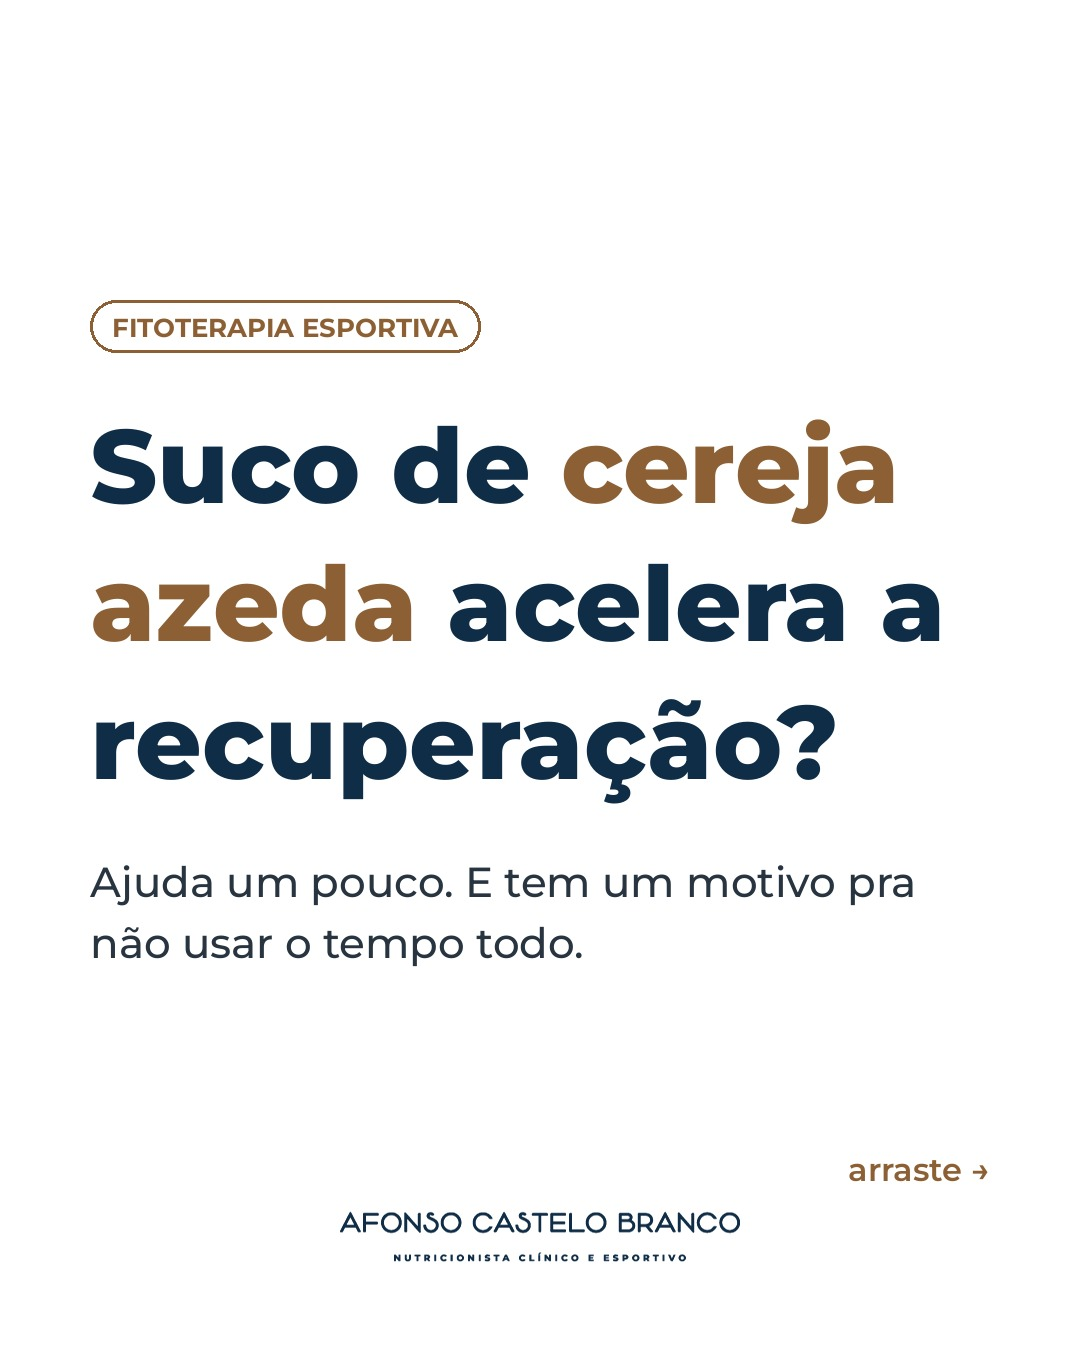
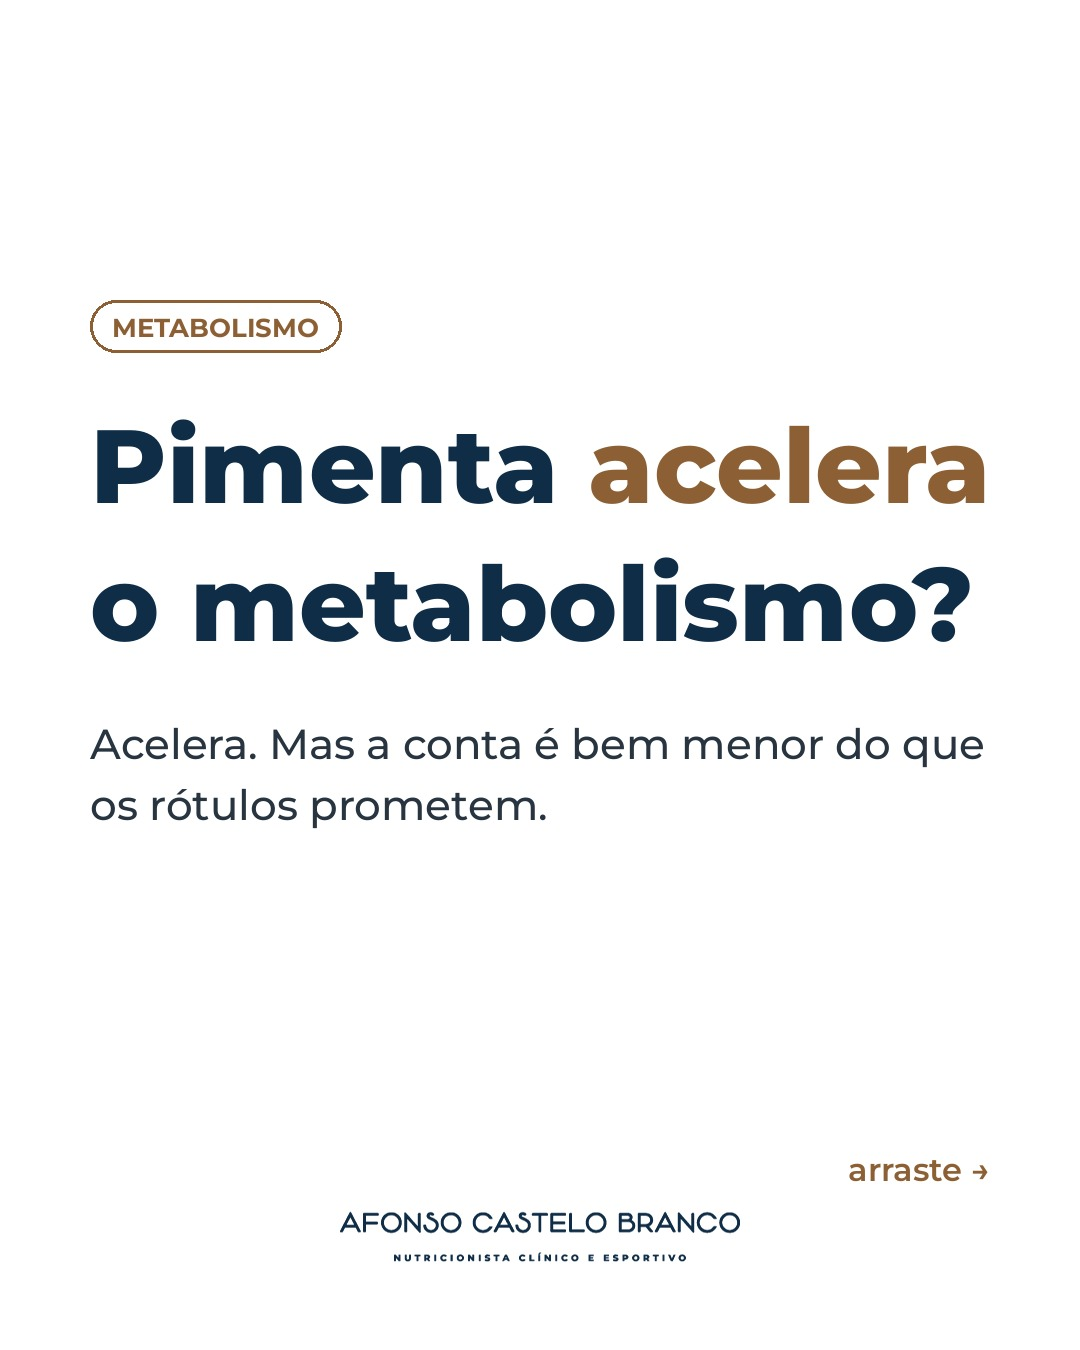
Post 2026-11-27 refeito: capsaicina e metabolismo (pedido do Afonso)
Claude-Session: https://claude.ai/code/session_01U8PX4XedKuDcX27eMS9xx6

diff --git a/historico.md b/historico.md
@@ -6,4 +6,4 @@ Formato: AAAA-MM-DD | eixo editorial | formato | tema | status (aguardando aprov
 2026-11-16 | Nutrição clínica esportiva e fisiologia | carrossel 6 slides | Síntese de proteína muscular durante e depois do treino | publicado | media_id 18139781101638955 (primeiro post)
 2026-11-20 | Fitoterapia integrativa | carrossel 7 slides | Cúrcuma, piperina e absorção da curcumina (e relatos de lesão hepática com suplementos) | publicado | media_id 18130372595511813
 2026-11-23 | Nutrição clínica esportiva e fisiologia | carrossel 7 slides | Dor muscular tardia: não é ácido lático e não mede crescimento | publicado | media_id 18122506510974686 (capa trocada a pedido: título em pergunta sobre crescimento)
-2026-11-27 | Fitoterapia integrativa (esportiva) | carrossel 8 slides | Cereja azeda (Montmorency) e recuperação depois do treino; uso pontual, não diário | aguardando aprovação | versão 2 (a 1ª, óleo de hortelã no intestino irritável, foi recusada: fito deve puxar pra esportiva)
+2026-11-27 | Fitoterapia integrativa (metabolismo e composição corporal) | carrossel 8 slides | Capsaicina (pimenta): gasto de energia, peso e treino; efeito real e pequeno | aguardando aprovação | versão 3, pedida pelo Afonso (v1 óleo de hortelã recusada; v2 cereja azeda trocada)
